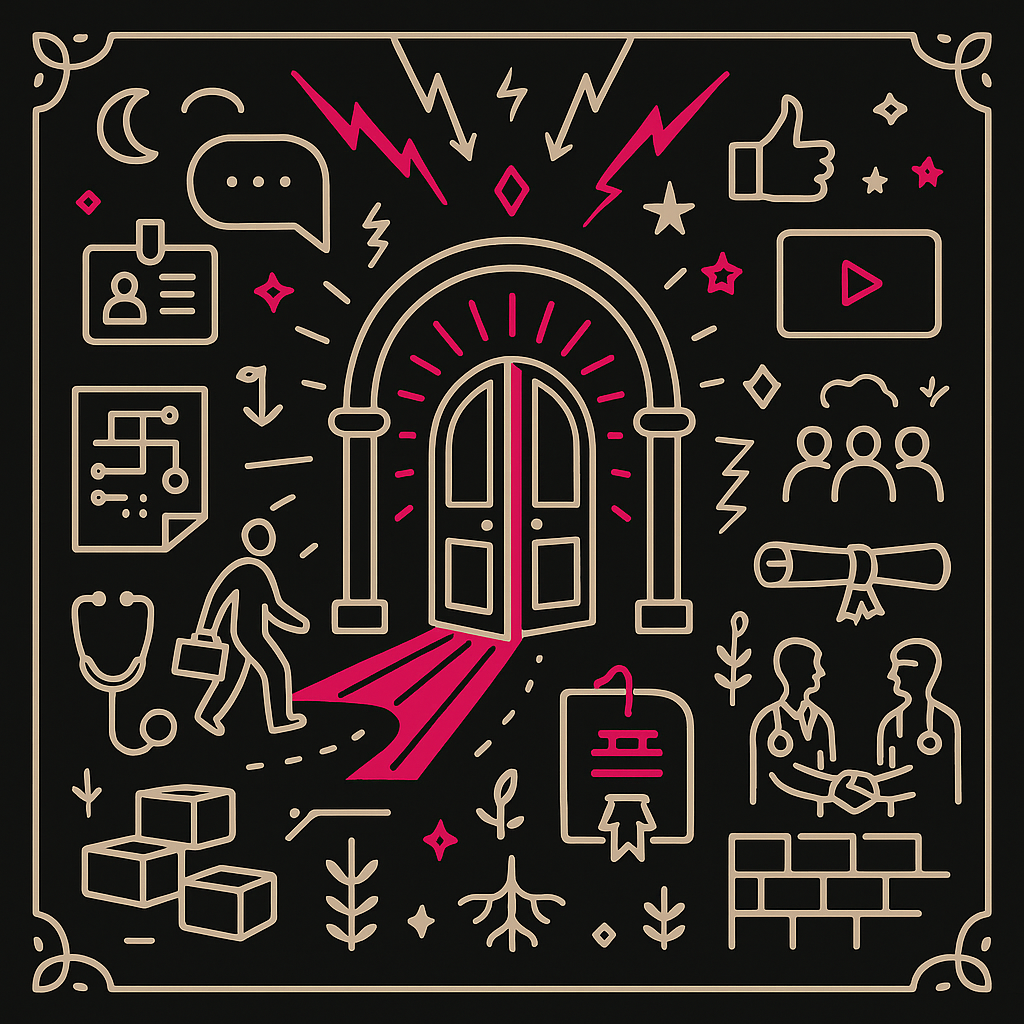
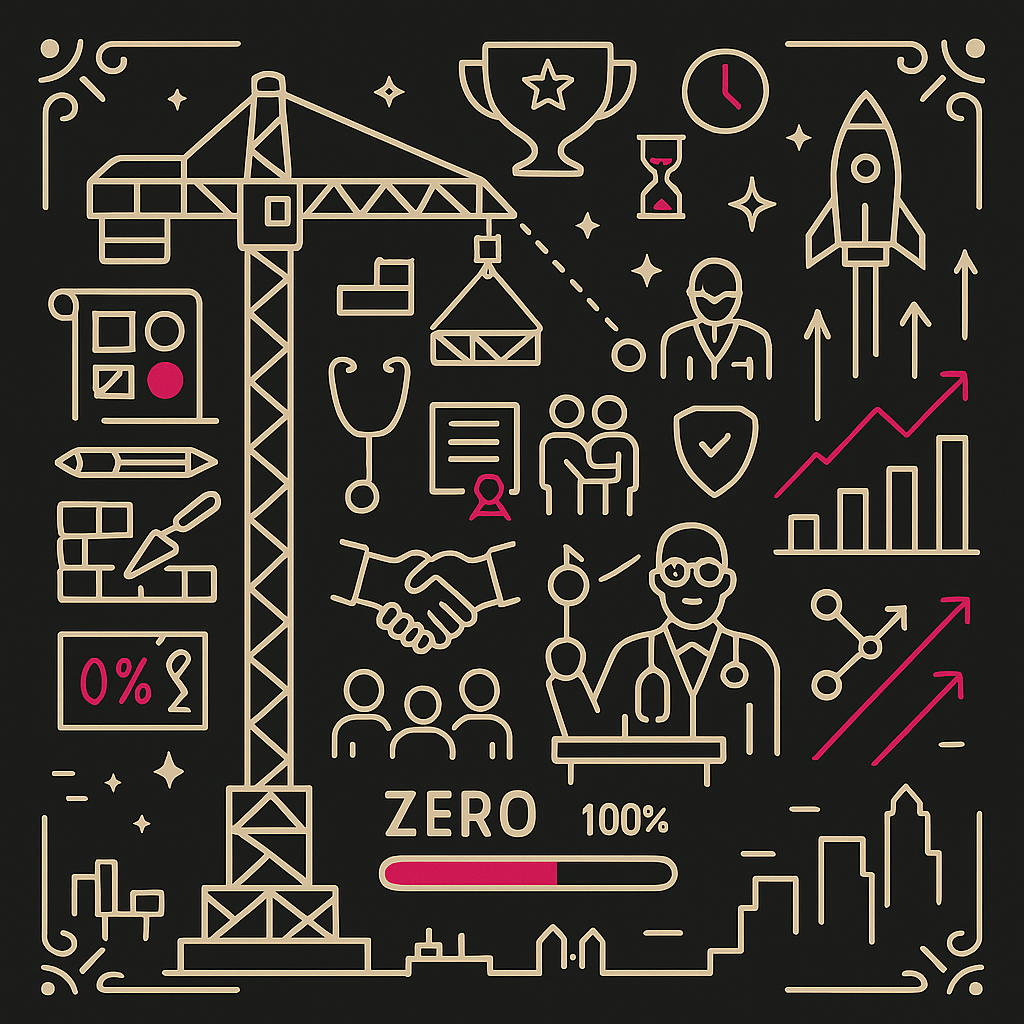
Update growth profile illustration for Build → Legitimize → Scale
Construction crane, zero-to-100 progress bar, time pressure,
medical legitimacy, and competitor buildings in distance.

🤖 Generated with [Claude Code](https://claude.com/claude-code)

diff --git a/scripts/generate_survodutide_images.py b/scripts/generate_survodutide_images.py
@@ -55,21 +55,25 @@ Throughout: Medical/scientific decorative elements - molecular bonds, cell struc
 The feeling should be: scientific elegance, metabolic transformation, medical legitimacy, sophisticated health technology
 """
 
-# Cultural Entry Growth Profile - for pre-launch brands entering contested categories
+# Cultural Entry Growth Profile - Build → Legitimize → Scale (pre-launch from zero)
 CULTURAL_ENTRY_PROMPT = """
-SUBJECT MATTER - Cultural Entry (Pre-launch brand entering contested cultural space):
+SUBJECT MATTER - Build → Legitimize → Scale (Pre-launch brand building everything from scratch):
 
-Central focal point: A GATEWAY or GRAND ENTRANCE ARCH at center - ornate but closed/partially open, representing the threshold into a new cultural territory. The door should be cracking open with light (in accent color) emerging.
+Central focal point: A CONSTRUCTION CRANE or SCAFFOLD STRUCTURE at center - actively building/assembling something that doesn't exist yet. The structure is mid-construction, clearly incomplete but rising.
 
-Upper area: Cultural symbols floating above - speech bubbles, media screens, social icons, crowd silhouettes, but shown as somewhat chaotic/contested. Lightning bolts or tension lines between competing forces.
+Upper area: The GOAL/VISION - a completed brand symbol or trophy at the top, but shown as blueprint/outline (not yet real). Clock or hourglass showing time pressure. Stars representing the destination.
 
-Middle elements: The pathway TO the gateway - showing preparation elements like blueprints, strategy maps, credential badges, medical/legitimacy symbols (stethoscope, diploma scrolls, official seals). A figure approaching the gate with these credentials.
+LEFT SIDE (Build phase): Foundation work - blueprint rolls, drafting tools, building blocks being stacked, identity elements being designed (logo sketches, color swatches), zero becoming one.
 
-Lower elements: Foundation building - cornerstone blocks being laid, roots growing, defensive walls being constructed, stakeholder figures (doctors, patients, advocates) forming an alliance.
+MIDDLE (Legitimize phase): Medical/credibility symbols - stethoscope, diploma/certificate, handshake between figures, podium/speaking platform, trust symbols (shield, seal of approval), doctor figure endorsing.
 
-Throughout: Tension lines between old narratives and new positioning, barrier elements being overcome, legitimacy symbols (certificates, handshakes, official stamps), cultural conversation bubbles, strategic arrows pointing toward the gateway
+RIGHT SIDE (Scale phase): Growth/launch elements - rocket preparing for launch, arrows pointing upward, megaphone/amplification, network nodes expanding, market chart rising.
 
-The feeling should be: strategic entry into contested territory, building legitimacy before the door opens, preparation and positioning, navigating cultural complexity
+Lower elements: Starting line or ground level marked "ZERO" - emphasizing the starting point is nothing. Competitors shown in distance (already built structures) creating urgency.
+
+Throughout: Construction lines, assembly arrows, progress indicators (0% to 100% bar), time pressure symbols (clocks, hourglasses), the pink accent color highlighting the path from zero to built.
+
+The feeling should be: building from nothing, racing against time, construction in progress, the long road from zero to competitive, urgency and determination
 """
 
 def generate_image(prompt_name, subject_prompt, output_filename):
@@ -109,16 +113,9 @@ def main():
     print(f"Style reference: {STYLE_REF}")
     print(f"Brand accent: {BRAND_ACCENT}")
 
-    # Generate cover
+    # Generate Cultural Entry growth profile only
     generate_image(
-        "Survodutide Cover",
-        COVER_PROMPT,
-        "survodutide-cover-new.png"
-    )
-
-    # Generate Cultural Entry growth profile
-    generate_image(
-        "Cultural Entry Growth Profile",
+        "Cultural Entry Growth Profile (Build → Legitimize → Scale)",
         CULTURAL_ENTRY_PROMPT,
         "growth-systems/cultural-entry-new.png"
     )
